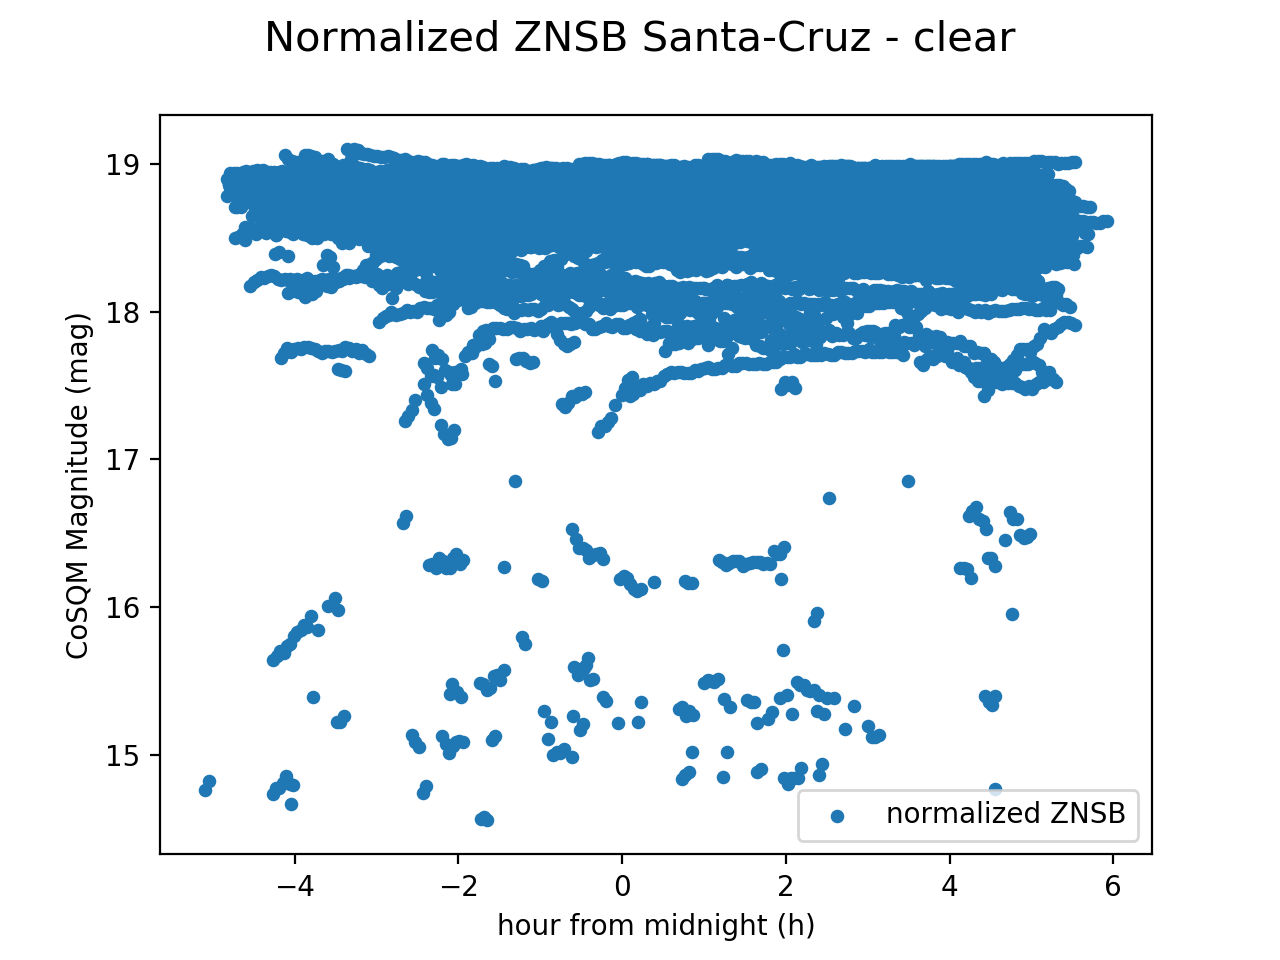
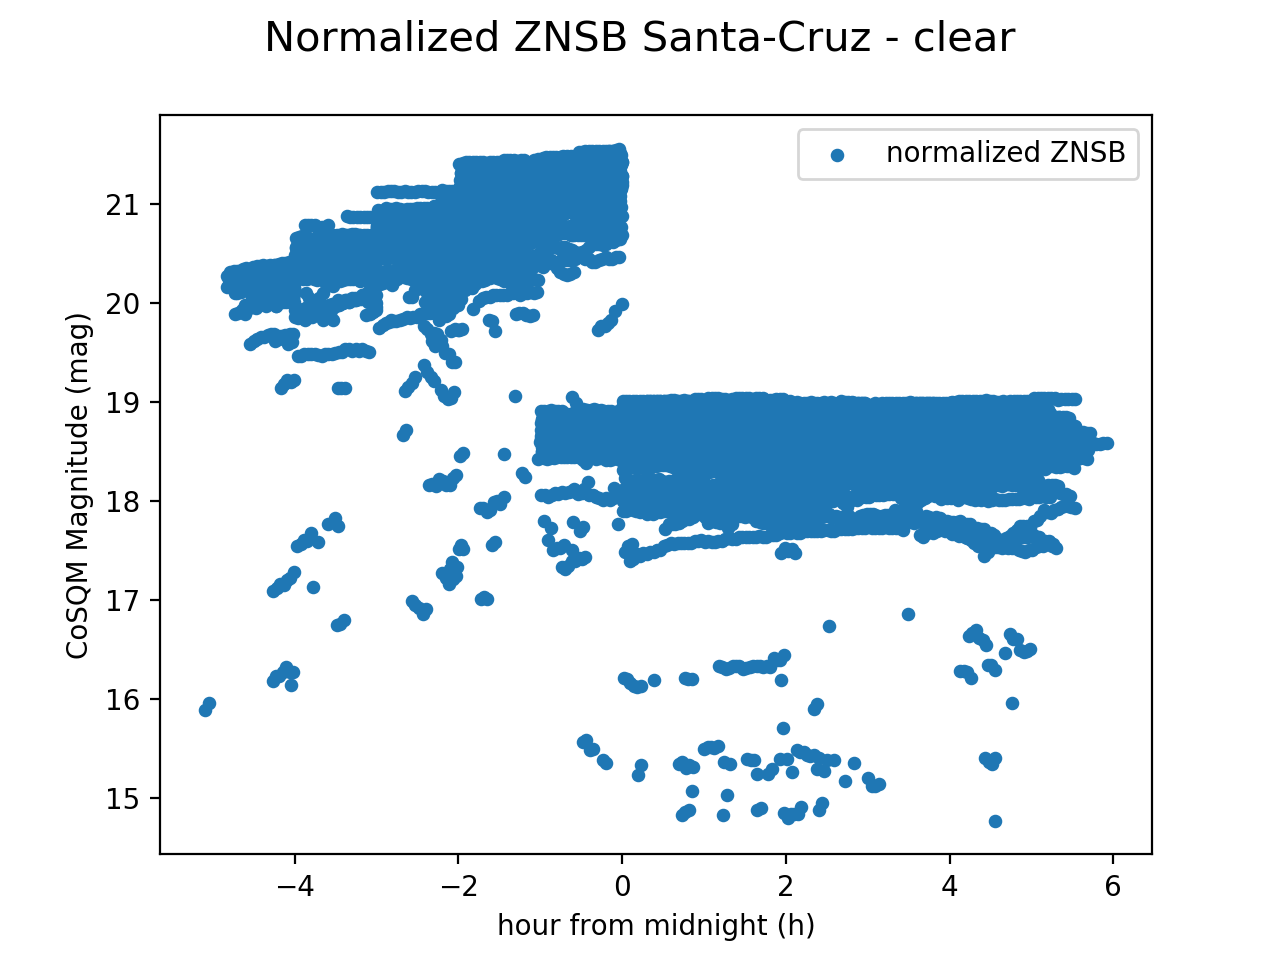
corrected minor bugs

diff --git a/aeronet_cosqm_correlation.py b/aeronet_cosqm_correlation.py
@@ -160,7 +160,7 @@ cosqm_santa_diff = Cloudslidingwindow(cosqm_santa, 5, 0.05)
 plt.scatter(dt_santa, cosqm_santa_diff[:,0], s=10, c='k', label='derivative cloud screening')
 
 ## threshold from visual analysis (14mag seems reasonable)
-cosqm_santa_diff[cosqm_santa_diff<14] = np.nan
+#cosqm_santa_diff[cosqm_santa_diff<16.5] = np.nan
 
 ## Compute moon angles for each timestamp in COSQM data
 print('moon_angles calculation')
@@ -336,30 +336,30 @@ for b,band in enumerate(bands):
 def second_order(x,a,b,c):
     return a*x**2+b*x+c
 
-fit_params_c, _ = curve_fit(second_order, hours[~np.isnan(c_norm[:,0])], c_norm[~np.isnan(c_norm[:,0])][:,0])
-fit_params_r, _ = curve_fit(second_order, hours[~np.isnan(c_norm[:,1])], c_norm[~np.isnan(c_norm[:,1])][:,1])
-fit_params_g, _ = curve_fit(second_order, hours[~np.isnan(c_norm[:,2])], c_norm[~np.isnan(c_norm[:,2])][:,2])
-fit_params_b, _ = curve_fit(second_order, hours[~np.isnan(c_norm[:,3])], c_norm[~np.isnan(c_norm[:,3])][:,3])
-fit_params_y, _ = curve_fit(second_order, hours[~np.isnan(c_norm[:,4])], c_norm[~np.isnan(c_norm[:,4])][:,4])
+fit_params_c, _ = curve_fit(second_order, hours_float[~np.isnan(c_norm[:,0])], c_norm[~np.isnan(c_norm[:,0])][:,0])
+fit_params_r, _ = curve_fit(second_order, hours_float[~np.isnan(c_norm[:,1])], c_norm[~np.isnan(c_norm[:,1])][:,1])
+fit_params_g, _ = curve_fit(second_order, hours_float[~np.isnan(c_norm[:,2])], c_norm[~np.isnan(c_norm[:,2])][:,2])
+fit_params_b, _ = curve_fit(second_order, hours_float[~np.isnan(c_norm[:,3])], c_norm[~np.isnan(c_norm[:,3])][:,3])
+fit_params_y, _ = curve_fit(second_order, hours_float[~np.isnan(c_norm[:,4])], c_norm[~np.isnan(c_norm[:,4])][:,4])
 fit_params = np.array([fit_params_c, fit_params_r, fit_params_g, fit_params_b, fit_params_y]).T
 
-xs = np.linspace(hours.min()-0.5, hours.max()+0.5, 1001)
+xs = np.linspace(hours_float.min()-0.5, hours_float.max()+0.5, 1001)
 
 fig, ax = plt.subplots()
-ax.scatter(hours,c_norm[:,0], s=15, label='normalized ZNSB')
-ax.plot(xs, second_order(xs, fit_params_c[0], fit_params_c[1], fit_params_c[2]), label='second order fit', c='k')
+ax.scatter(hours_float,c_norm[:,3], s=15, label='normalized ZNSB')
+ax.plot(xs, second_order(xs, fit_params_b[0], fit_params_b[1], fit_params_b[2]), label='second order fit', c='k')
 ax.legend()
 plt.xlabel('hour from midnight (h)', fontsize=10)
 plt.ylabel('CoSQM Magnitude (mag)', fontsize=10)
-fig.suptitle(f'Normalized ZNSB Santa-Cruz - {band}', fontsize=15)
-plt.savefig(f'images/santa/trends/normalized_fitted_{band}.png')
+fig.suptitle(f'Normalized ZNSB Santa-Cruz - BLUE', fontsize=15)
+plt.savefig(f'images/santa/trends/normalized_fitted_BLUE.png')
 
 # Correct filtered data with fit curve
 cosqm_santa_2nd = np.array([second_order(hours, fit_params_c[0], fit_params_c[1], fit_params_c[2]),
-    second_order(hours, fit_params_r[0], fit_params_r[1], fit_params_r[2]),
-    second_order(hours, fit_params_g[0], fit_params_g[1], fit_params_g[2]),
-    second_order(hours, fit_params_b[0], fit_params_b[1], fit_params_b[2]),
-    second_order(hours, fit_params_y[0], fit_params_y[1], fit_params_y[2])]).T
+    second_order(hours_float, fit_params_r[0], fit_params_r[1], fit_params_r[2]),
+    second_order(hours_float, fit_params_g[0], fit_params_g[1], fit_params_g[2]),
+    second_order(hours_float, fit_params_b[0], fit_params_b[1], fit_params_b[2]),
+    second_order(hours_float, fit_params_y[0], fit_params_y[1], fit_params_y[2])]).T
 
 dt_santa_final = np.copy(dt_santa_sun)
 cosqm_santa_final = np.copy(cosqm_santa_sun) - cosqm_santa_2nd
@@ -393,6 +393,7 @@ data_aod_raw = np.genfromtxt(path, delimiter = ',', skip_header = header, usecol
 
 # Find which bands have no data (take mean of bands and find indices diff. than 0)
 data_aod = data_aod_raw[:,np.where(data_aod_raw[0]>=0)[0]]
+data_aod[data_aod < 0] = np.nan
 
 dates_str = np.genfromtxt(path, delimiter = ',', skip_header = header, usecols = [0,1], dtype = str)
 dates_aod = np.array([ dt.strptime( dates+times, '%d:%m:%Y%H:%M:%S' ).timestamp() for dates, times in dates_str ])
@@ -411,8 +412,8 @@ bands_aod = np.genfromtxt(path, delimiter = ',', skip_header = header-1, skip_fo
 
 
 # Plot each band of aod measurements for total data
-for i in range(non_empty_aod[0].shape[0]):
-    plt.scatter(dt_aod, data_aod[:,i], label=bands_aod[non_empty_aod[0,i]], s=0.2)
+for i in range(bands_aod.shape[0]):
+    plt.scatter(dt_aod, data_aod[:,i], label=bands_aod[i], s=0.2)
 plt.legend()
 plt.show()
 
@@ -430,8 +431,8 @@ cosqm_pm = np.zeros((np.unique(ddays_cosqm).shape[0], 5))
 for i,day in enumerate(np.unique(ddays_cosqm)):
     d_mask_am = np.zeros(ddays_cosqm.shape[0], dtype=bool)
     d_mask_pm = np.zeros(ddays_cosqm.shape[0], dtype=bool)
-    d_mask_am[(ddays_cosqm == day) & (hours >= 3) & (hours <= 10)] = True
-    d_mask_pm[(ddays_cosqm == day) & (hours >= 16) & (hours <= 24)] = True
+    d_mask_am[(ddays_cosqm == day) & (hours >= 5) & (hours <= 10)] = True
+    d_mask_pm[(ddays_cosqm == day) & (hours >= 16) & (hours <= 21)] = True
     inds_am = np.where(d_mask_am == True)[0]
     inds_pm = np.where(d_mask_pm == True)[0]
     cosqm_am[i] = np.nanmean(cosqm_santa_final[inds_am],axis=0)
@@ -452,20 +453,15 @@ hours_float[hours_float>12]-=24
 for i,day in enumerate(np.unique(ddays_aod)):
     d_mask_am = np.zeros(ddays_aod.shape[0], dtype=bool)
     d_mask_pm = np.zeros(ddays_aod.shape[0], dtype=bool)
-    d_mask_am[(ddays_aod == day) & (hours_aod <= 10)] = True
-    d_mask_pm[(ddays_aod == day) & (hours_aod >= 15)] = True
+    d_mask_am[(ddays_aod == day) & (hours_aod <= 7)] = True
+    d_mask_pm[(ddays_aod == day) & (hours_aod >= 18)] = True
     inds_am = np.where(d_mask_am == True)[0]
     inds_pm = np.where(d_mask_pm == True)[0]
     aod_am[i] =  np.nanmean(aod[inds_am],axis=0)
     aod_pm[i] =  np.nanmean(aod[inds_pm],axis=0)
-    aod_am[aod_am == 0] = np.nan                    # remove zeros values from sensor problem (no data?)
-    aod_pm[aod_pm == 0] = np.nan                    # remove zeros values from sensor problem (no data?)
+    aod_am[aod_am <= 0] = np.nan                    # remove zeros values from sensor problem (no data?)
+    aod_pm[aod_pm <= 0] = np.nan                    # remove zeros values from sensor problem (no data?)
 
-
-
-
-plt.scatter(np.unique(ddays_cosqm), cosqm_am[:,0]/np.nanmax(cosqm_am[:,0]))
-plt.scatter(np.unique(ddays_aod), aod_am[:,0]/np.nanmax(aod_am[:,0]))
 
 # Find days in aod from cosqm
 same_days_aod_inds = np.isin(np.unique(ddays_aod), np.unique(ddays_cosqm))
@@ -473,16 +469,69 @@ same_days_aod = np.unique(ddays_aod)[same_days_aod_inds]
 
 same_days_cosqm_inds = np.isin(np.unique(ddays_cosqm), np.unique(ddays_aod))
 
-plt.scatter(np.unique(ddays_cosqm), cosqm_am[:,0]/np.nanmax(cosqm_am[:,0]))
-plt.scatter(np.unique(ddays_aod), aod_am[:,0]/np.nanmax(aod_am[:,0]))
+plt.figure()
+plt.title('znsb am and pm values')
+plt.scatter(np.unique(ddays_cosqm), cosqm_am[:,1], label='cosqm_am')
+plt.scatter(np.unique(ddays_cosqm), cosqm_pm[:,1], label='cosqm_pm')
+plt.legend()
 
 
-plt.scatter(aod_am[same_days_aod_inds][:,3], cosqm_am[same_days_cosqm_inds, 1])
+plt.figure()
+plt.title('aod am and pm values')
+plt.scatter(np.unique(ddays_aod), aod_am[:,3], label='aeronet_am')
+plt.scatter(np.unique(ddays_aod), aod_pm[:,3], label='aeronet_pm')
+plt.legend()
 
 
+#Correlation plots for the 4 color bands (R-629nm, G-546nm, B-514nm, Y-562nm)
+plt.figure()
+plt.scatter(aod_am[same_days_aod_inds][:,3], cosqm_am[same_days_cosqm_inds, 1], label='RED - AM')
+plt.scatter(aod_pm[same_days_aod_inds][:,3], cosqm_pm[same_days_cosqm_inds, 1], label='RED - PM')
+plt.title('AOD band - 675nm')
+plt.legend()
 
+plt.figure()
+plt.scatter(aod_am[same_days_aod_inds][:,3], cosqm_am[same_days_cosqm_inds, 2], label='GREEN - AM')
+plt.scatter(aod_pm[same_days_aod_inds][:,3], cosqm_pm[same_days_cosqm_inds, 2], label='GREEN - PM')
+plt.title('AOD band - 675nm')
+plt.legend()
 
+plt.figure()
+plt.scatter(aod_am[same_days_aod_inds][:,3], cosqm_am[same_days_cosqm_inds, 3], label='BLUE - AM')
+plt.scatter(aod_pm[same_days_aod_inds][:,3], cosqm_pm[same_days_cosqm_inds, 3], label='BLUE - PM')
+plt.title('AOD band - 675nm')
+plt.legend()
 
+plt.figure()
+plt.scatter(aod_am[same_days_aod_inds][:,3], cosqm_am[same_days_cosqm_inds, 4], label='YELLOW - AM')
+plt.scatter(aod_pm[same_days_aod_inds][:,3], cosqm_pm[same_days_cosqm_inds, 4], label='YELLOW - PM')
+plt.title('AOD band - 675nm')
+plt.legend()
+
+####
+plt.figure()
+plt.scatter(aod_am[same_days_aod_inds][:,4], cosqm_am[same_days_cosqm_inds, 1], label='RED - AM')
+plt.scatter(aod_pm[same_days_aod_inds][:,4], cosqm_pm[same_days_cosqm_inds, 1], label='RED - PM')
+plt.title('AOD band - 500nm')
+plt.legend()
+
+plt.figure()
+plt.scatter(aod_am[same_days_aod_inds][:,4], cosqm_am[same_days_cosqm_inds, 2], label='GREEN - AM')
+plt.scatter(aod_pm[same_days_aod_inds][:,4], cosqm_pm[same_days_cosqm_inds, 2], label='GREEN - PM')
+plt.title('AOD band - 500nm')
+plt.legend()
+
+plt.figure()
+plt.scatter(aod_am[same_days_aod_inds][:,4], cosqm_am[same_days_cosqm_inds, 3], label='BLUE - AM')
+plt.scatter(aod_pm[same_days_aod_inds][:,4], cosqm_pm[same_days_cosqm_inds, 3], label='BLUE - PM')
+plt.title('AOD band - 500nm')
+plt.legend()
+
+plt.figure()
+plt.scatter(aod_am[same_days_aod_inds][:,4], cosqm_am[same_days_cosqm_inds, 4], label='YELLOW - AM')
+plt.scatter(aod_pm[same_days_aod_inds][:,4], cosqm_pm[same_days_cosqm_inds, 4], label='YELLOW - PM')
+plt.title('AOD band - 500nm')
+plt.legend()
 
 
 
